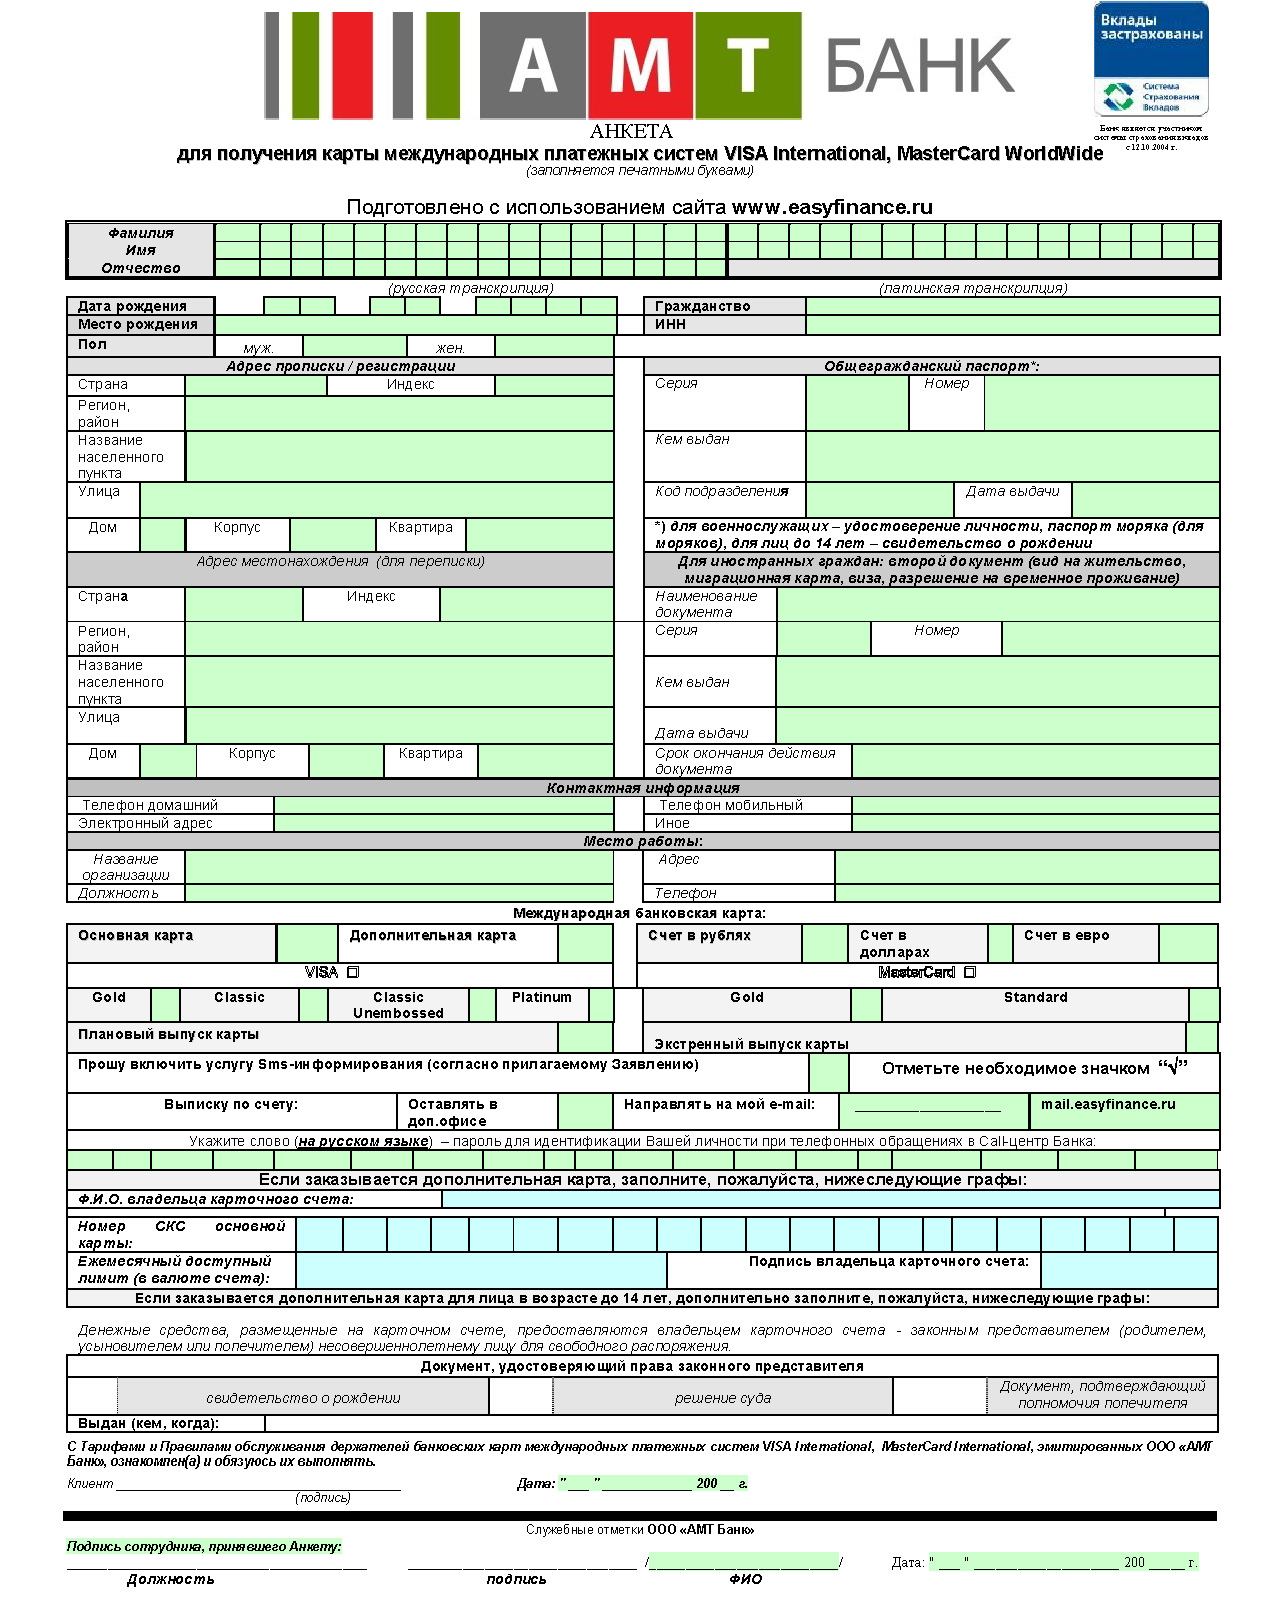
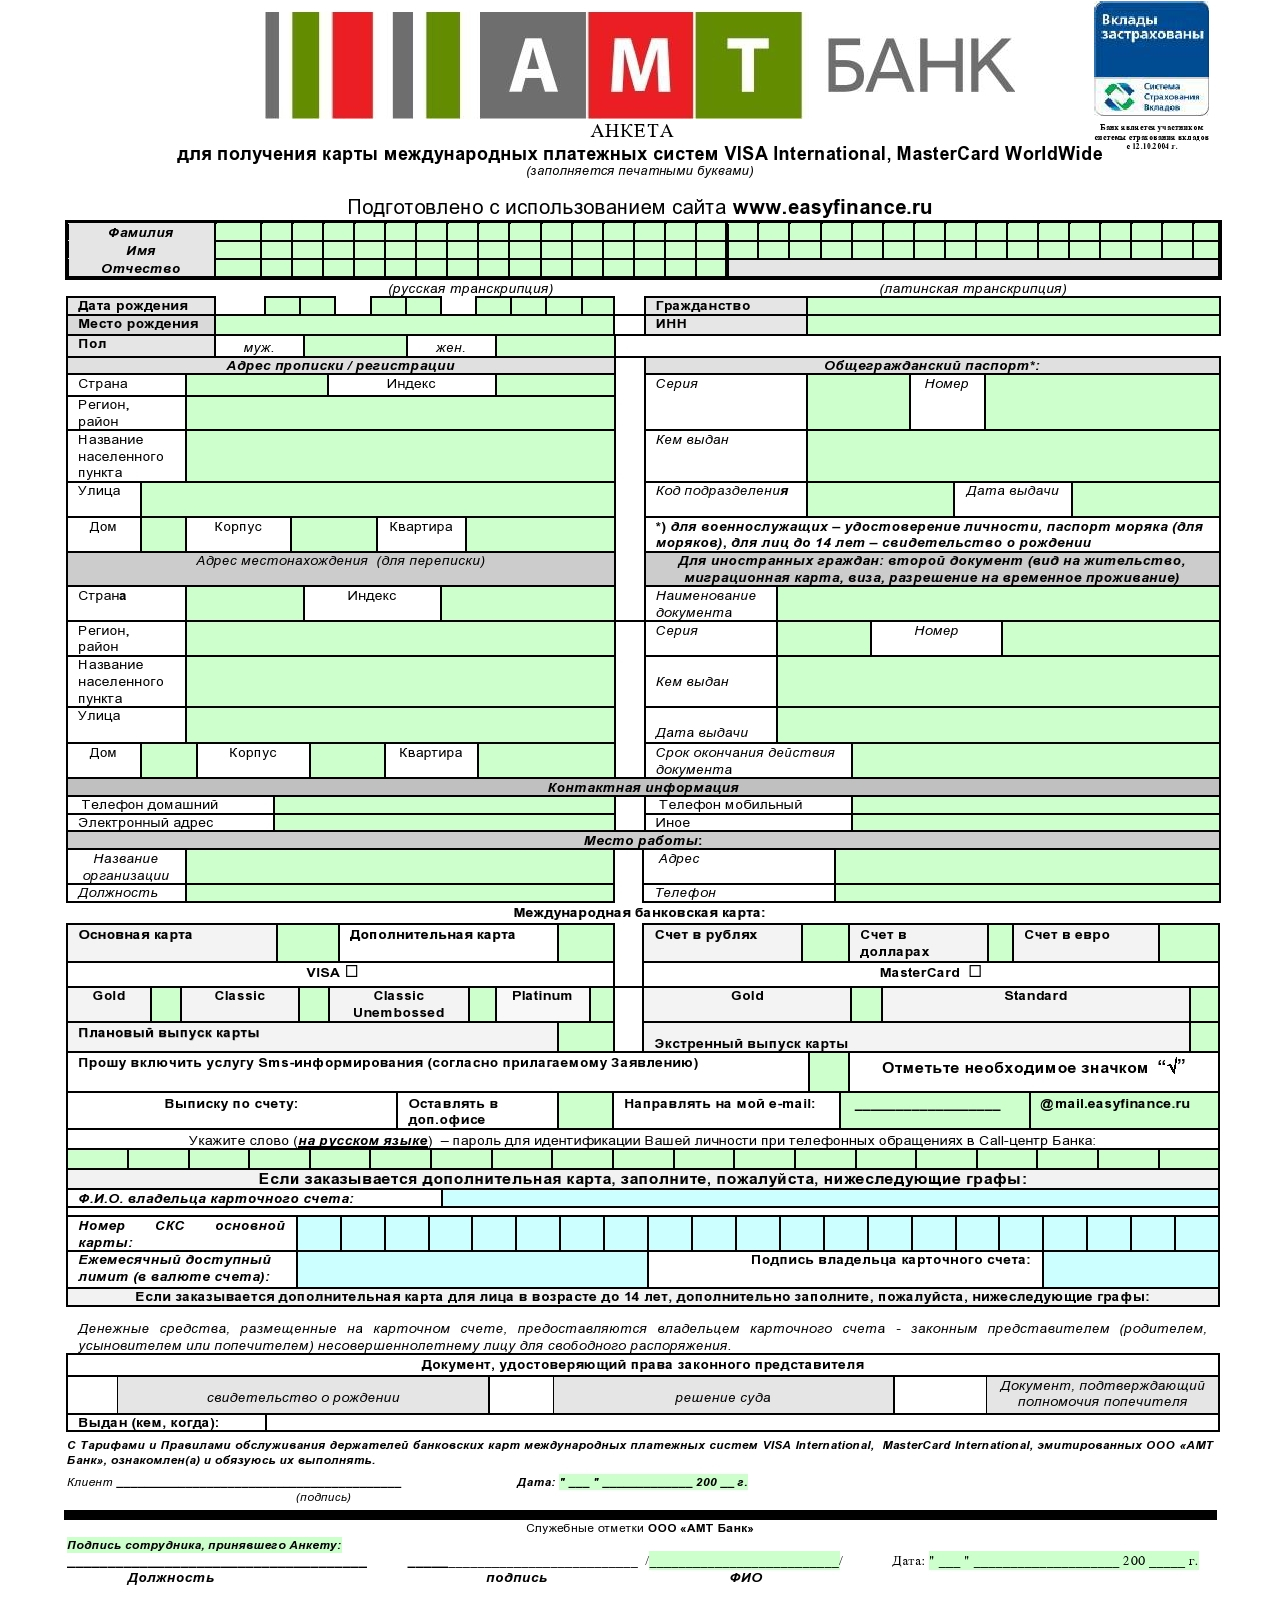
t1238 интеграция: печать анкеты
изменил вёрстку, подложку для PDF, тексты и т.п.

diff --git a/views/integration/amt-wizard.html b/views/integration/amt-wizard.html
@@ -1,17 +1,21 @@
+<p>Заполните и распечатайте анкету. Для печати анкета выводится в PDF-файле на одной странице в виде, установленном банком. Вы можете в любой момент посмотреть и использовать получающийся результат, даже если что-то недозаполнили - для этого перейдите на последний шаг и нажмите кнопку печати, а затем продолжите заполнение.</p>
+
+<p>Удобно переходить по полям клавишей TAB, переходить на следующий шаг - клавишей Enter.</p>
+
         <div id="wizard">
             <div id="wz_header">
                 <ol>
                     <li class="wz_tab_header">Личные данные</li>
                     <li class="wz_tab_header">Прописка / Регистрация</li>
-                    <li class="wz_tab_header">Место жительства</li>
+                    <li class="wz_tab_header">Местонахождение</li>
                     <li class="wz_tab_header">Паспорт</li>
-                    <li class="wz_tab_header">Для иностранцев: второй док-т</li>
+                    <li class="wz_tab_header">Для иностранцев: второй документ</li>
                     <li class="wz_tab_header">Контакты</li>
                     <li class="wz_tab_header">Работа</li>
-                    <li class="wz_tab_header">Карта</li>
-                    <li class="wz_tab_header">Доп. карта</li>
-                    <li class="wz_tab_header">Доп. карта до 14</li>
-                    <li class="wz_tab_header">Пароль / Финиш</li>
+                    <li class="wz_tab_header">Свойства карты</li>
+                    <li class="wz_tab_header">Дополнительная карта</li>
+                    <li class="wz_tab_header">Дополнительная карта для лиц до 14</li>
+                    <li class="wz_tab_header">Пароль и согласие</li>
                 </ol>
             </div>
 
@@ -50,7 +54,7 @@
                             </div>
 
                             <div class="fld_holder">
-                                <label for="wz_birthdate">Дата рождения (дд.мм.гггг)<span class="wz_req_fld">*</span></label><br />
+                                <label for="wz_birthdate">Дата рождения (в формате дд.мм.гггг, например 20.11.1960)<span class="wz_req_fld">*</span></label><br />
                                 <input type="text" name="wz_birthdate" id="wz_birthdate" value="" maxlength="10" onblur="dValidator.catchOnChange(this, null, 2);" /><br /><br />
                             </div>
 
@@ -200,12 +204,12 @@
 
                             <div class="fld_holder">
                                 <label for="wz_rf_id_series">Серия <span class="wz_req_fld">*</span></label><br />
-                                <input type="text" name="wz_rf_id_series" id="wz_rf_id_series" value="" maxlength="4" onblur="dValidator.catchOnChange(this, null, 2);" /><br /><br />
+                                <input type="text" name="wz_rf_id_series" id="wz_rf_id_series" value="" onblur="dValidator.catchOnChange(this, null, 2);" /><br /><br />
                             </div>
 
                             <div class="fld_holder">
                                 <label for="wz_rf_id_number">Номер <span class="wz_req_fld">*</span></label><br />
-                                <input type="text" name="wz_rf_id_number" id="wz_rf_id_number" value="" maxlength="6" onblur="dValidator.catchOnChange(this, null, 2);" /><br /><br />
+                                <input type="text" name="wz_rf_id_number" id="wz_rf_id_number" value="" onblur="dValidator.catchOnChange(this, null, 2);" /><br /><br />
                             </div>
 
                             <div class="fld_holder">
@@ -219,7 +223,7 @@
                             </div>
 
                             <div class="fld_holder">
-                                <label for="wz_rf_id_date">Дата выдачи (дд.мм.гггг)<span class="wz_req_fld">*</span></label><br />
+                                <label for="wz_rf_id_date">Дата выдачи (в формате дд.мм.гггг, например 20.11.1980)<span class="wz_req_fld">*</span></label><br />
                                 <input type="text" name="wz_rf_id_date" id="wz_rf_id_date" value="" maxlength="10" onblur="dValidator.catchOnChange(this, null, 2);" /><br /><br />
                             </div>
 
@@ -258,7 +262,7 @@
                             </div>
 
                             <div class="fld_holder">
-                                <label for="wz_foreign_id_date">Дата выдачи</label><br />
+                                <label for="wz_foreign_id_date">Дата выдачи (в формате дд.мм.гггг, например 20.11.1960)</label><br />
                                 <input type="text" name="wz_foreign_id_date" id="wz_foreign_id_date" value="" maxlength="10" /><br /><br />
                             </div>
 
@@ -414,6 +418,8 @@
                 <div class="wz_tab_content">
                     <h3>Дополнительная карта</h3>
 
+                    <p>Если заказывается дополнительная карта, заполните, пожалуйста, нижеследующие графы:</p>
+
                     <form id="addit_card_info" action="" method="post" class="wz_frm" onsubmit="return wzStepNextBack('+');">
                         <fieldset>
                             <input type="hidden" name="step_name" value="addit_card_info" />
@@ -442,6 +448,8 @@
                 <!-- Tab 9 -->
                 <div class="wz_tab_content">
                     <h3>Дополнительная карта для лица до 14 лет</h3>
+
+                    <p>Если заказывается дополнительная карта для лица в возрасте до 14 лет, дополнительно заполните, пожалуйста, нижеследующие графы:</p>
 
                     <form id="addit_card14_info" action="" method="post" class="wz_frm" onsubmit="return wzStepNextBack('+');">
                         <fieldset>
@@ -481,18 +489,18 @@
                             <input type="hidden" name="step_name" value="finish" />
 
                             <div class="fld_holder">
-                                <label for="wz_password">Пароль (ТОЛЬКО РУССКИЕ БУКВЫ И ЦИФРЫ) <span class="wz_req_fld">*</span></label><br />
+                                <label for="wz_password">Пароль (слово <b>на русском языке</b>  – для идентификации Вашей личности при телефонных обращениях в Call-центр Банка) <span class="wz_req_fld">*</span></label><br />
                                 <input name="wz_password" id="wz_password" value="" maxlength="255" onblur="dValidator.catchOnChange(this, null, 2);" /><br /><br />
                             </div>
 
                             <div class="fld_holder">
-                                С правилами ознакомлен <span class="wz_req_fld">*</span><br />
+                                <!-- С правилами ознакомлен <span class="wz_req_fld">*</span><br /> -->
                                 <input type="checkbox" name="wz_omni_agreement" id="wz_omni_agreement" value="1" onclick="dValidator.catchOnChange(this, null, 2);" onblur="dValidator.catchOnChange(this, null, 2);" /> <label for="wz_omni_agreement">С Тарифами и Правилами обслуживания держателей банковских карт международных платежных систем VISA International, MasterCard International, эмитированных ООО «АМТ Банк», ознакомлен(а) и обязуюсь их выполнять.</label><br />
                                 <br />
                             </div>
 
                             <input type="button" value="&lt;&lt;Назад" onclick="return wzStepNextBack('-');" />
-                            <input id="btnPrintForm" type="submit" value="Распечатать" />
+                            <input id="btnPrintForm" type="submit" value="Распечатать" style="font-weight:bold" />
                         </fieldset>
                     </form>
                 </div>

diff --git a/views/integration/amt.html b/views/integration/amt.html
@@ -24,8 +24,9 @@
                         {else}
                             <div align="left">
                                 <!-- <input id="btnShowRegister" type="button" value="Зарегистрироваться" />&nbsp;&nbsp;&nbsp;или&nbsp;&nbsp; -->
-                                <a href="/registration" target="_blank">Зарегистрироваться</a>&nbsp;&nbsp;&nbsp;или&nbsp;&nbsp;
-                                <input id="btnShowLogin" type="button" value="Войти" /><br>
+                                <input id="btnShowLogin" type="button" value="Войти" />&nbsp;&nbsp;&nbsp;или&nbsp;&nbsp;
+                                <a href="/registration" target="_blank">зарегистрироваться</a>
+                                (форма регистрации откроется в новом окне, после регистрации обновите это окно)<br>
                                 {include file="common/registration.html"}
                                 {include file="common/authentication.html"}
                             </div>
@@ -45,7 +46,6 @@
                                         
                                         <ul class="numberWithPoint">Email должен быть:
                                             <li>легко запоминаемым, чтобы безошибочно указать его в анкете</li>
-                                            <li>уникальным – чтобы на него случайно не написал кто-то другой</li>
                                             <li>не связанным с Вашими личными данными – логином, именем, фамилией, паролем, другим email и т.п. – чтобы другой пользователь, даже обнаружив его существование при попытке создать свой email, ничего о Вас не узнал</li>
                                         </ul>
                                     </div><br>
@@ -73,11 +73,14 @@
                     <div>
                         <!-- <div>Здесь инструкция</div><br> -->
                         <div>
-                            Выберите <b>дебетовый счёт</b> из списка:
+                            <button id='btnCreateAccount'>Создайте счёт</button> для карты "EASYFINANCE"<br><br>
+
+                            Или выберите счёт из списка (отображаются только дебетовые карты):
                             <select id="optionAccount"></select><br><br>
-                            Так же Вы можете <button id='btnCreateAccount'>создать счёт</button><br><br>
+
                             <button id='btnBackToEmail' style="font-weight: bold">Назад</button>
                             <button id='btnLinkAccount' style="font-weight: bold">Далее</button>
+
                         </div>
                     </div>
                     <h3><a href="#">4. Заполнить и распечатать анкету</a></h3>

diff --git a/www/js/integration/omni.js b/www/js/integration/omni.js
@@ -434,6 +434,6 @@ $(document).ready(function(){
         $("#wz_actual_building").val($("#wz_reg_building").val());
         $("#wz_actual_appartment").val($("#wz_reg_appartment").val());
 
-        $("#btnAddressNext").click();
+        //$("#btnAddressNext").click();
     });
 });
